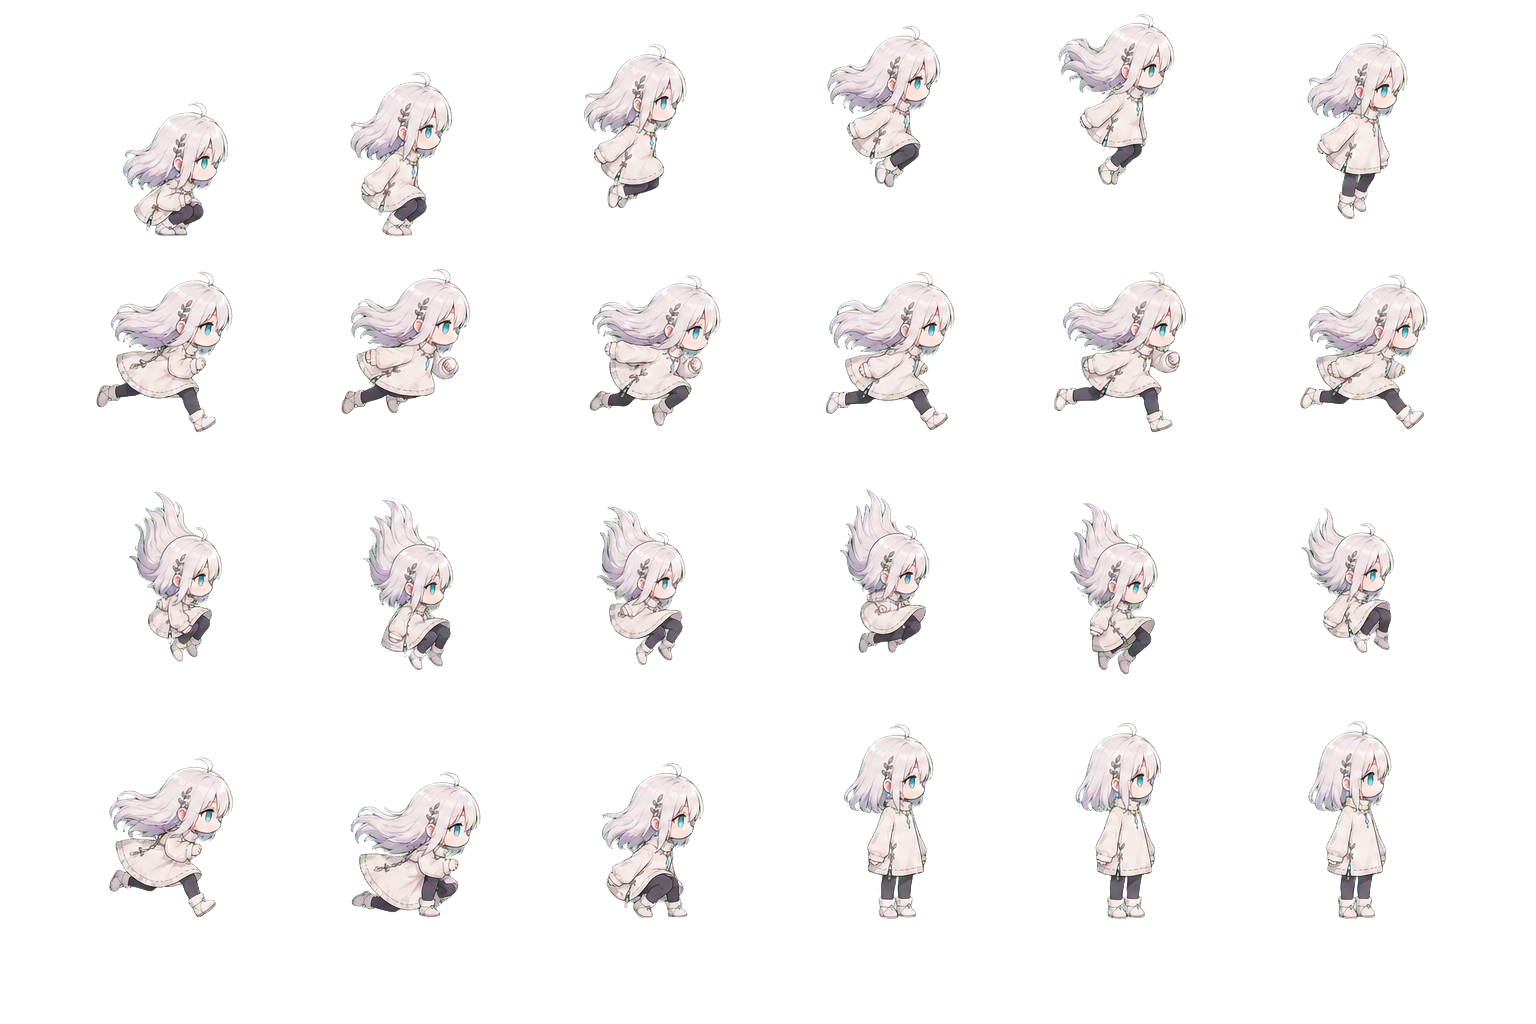
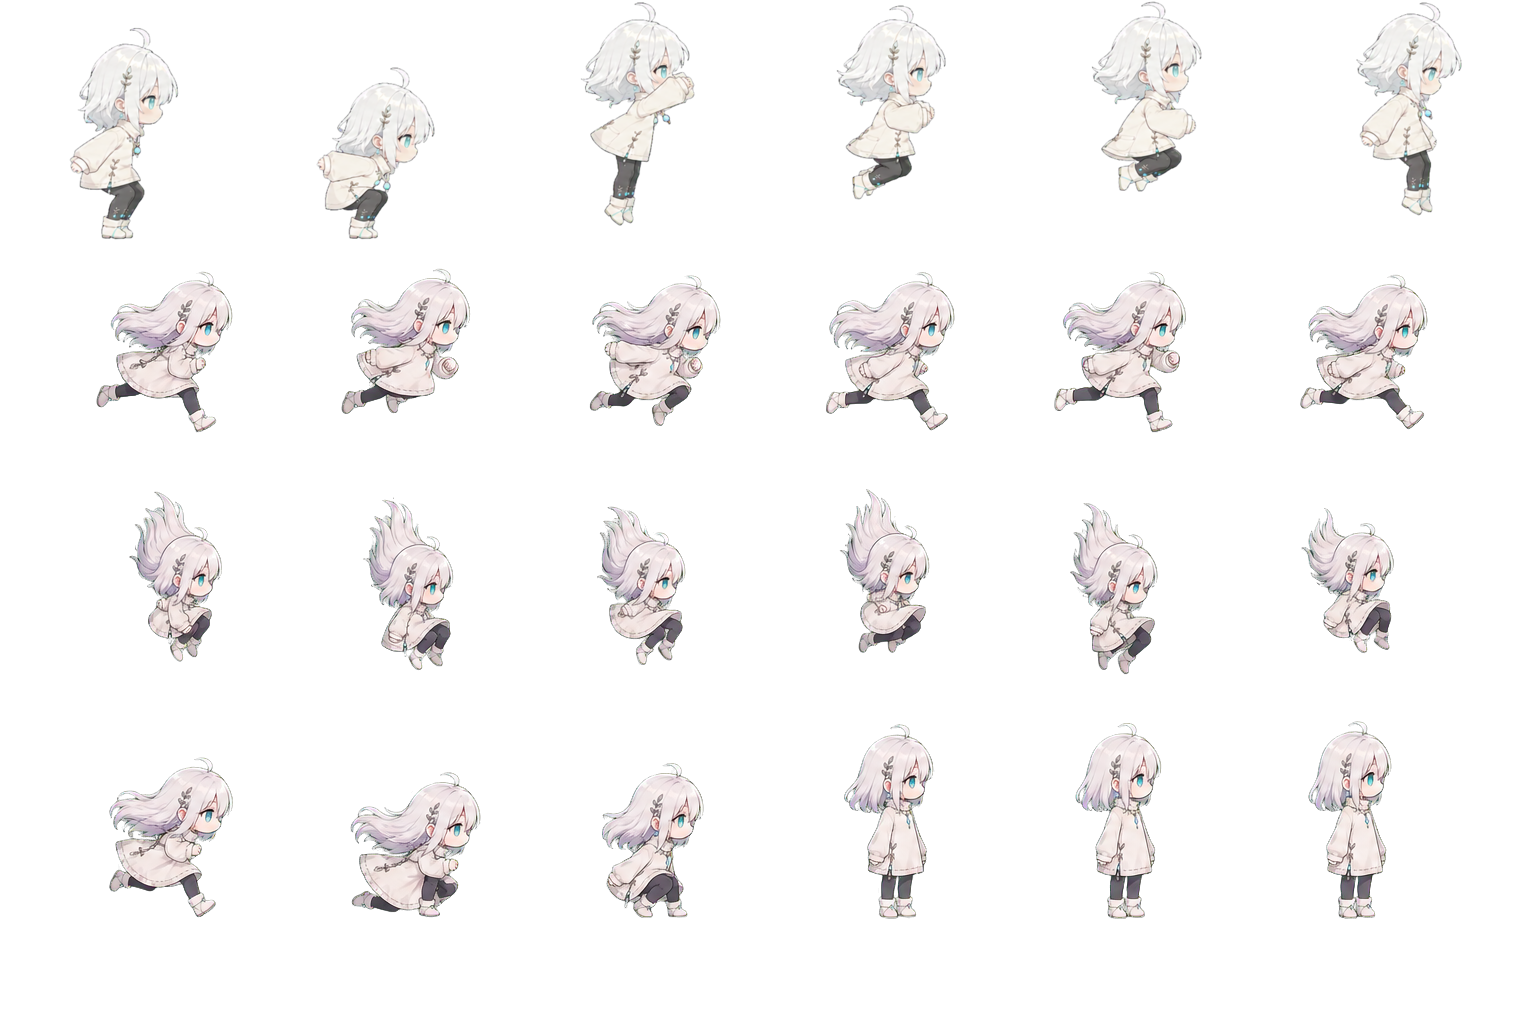
fix: lock player sprite feet to ground line regardless of frame padding
SpriteAnimator scaled frames to a uniform height but always rendered
around the sprite's canvas-center pivot, so frames with more empty
space above/below the character than the collider expected made the
player look like it was floating. Add lockFeetToGround/groundY so
Apply() repositions each frame using its trimmed sprite.bounds.min.y,
keeping the feet pinned to the capsule collider's bottom (-0.7).
Enabled for the Player only; other SpriteAnimator users are unchanged.

Also swap in the new chibi Jump sprite sheet (first 6 of 8 generated
frames, matching the existing Player_Aerial_v1.png grid).

diff --git a/HiddenWeight/Assets/Scripts/World/SpriteAnimator.cs b/HiddenWeight/Assets/Scripts/World/SpriteAnimator.cs
@@ -27,6 +27,13 @@ namespace HiddenWeight.World
         // 0보다 크면 매 프레임 이 높이에 맞춰 스케일을 다시 잡아 크기를 일정하게 유지한다.
         [SerializeField] float normalizedHeight = 0f;
 
+        // 프레임마다 캔버스 안 여백(머리 위·발 아래 공백)이 달라, 피벗(캔버스 중앙)만 믿으면
+        // 발 위치가 프레임/클립마다 들쭉날쭉해진다(플레이어 "공중에 뜬 것처럼 보인다" 버그).
+        // 켜두면 매 프레임 스프라이트의 실제(트리밍된) 바닥이 항상 groundY(로컬 좌표)에 오도록
+        // 위치를 다시 계산한다 — 피벗 대신 "그림 속 발"을 기준으로 맞춘다.
+        [SerializeField] bool lockFeetToGround = false;
+        [SerializeField] float groundY = 0f;
+
         // "지금 실제로 화면에 그려지는 렌더러"는 이것 하나다. 좌우 반전·피격 점멸처럼
         // 겉모습을 건드리는 쪽은 전부 여기를 봐야 한다 — 예전에는 프리팹 루트에 남아 있던
         // 꺼진 렌더러를 잡아, 안 보이는 그림만 뒤집히고 점멸이 엉뚱한 그림을 켜 놓았다.
@@ -119,6 +126,14 @@ namespace HiddenWeight.World
             // 가로세로 비율은 유지한 채 높이만 맞춘다.
             float scale = normalizedHeight / height;
             target.transform.localScale = new Vector3(scale, scale, 1f);
+
+            if (!lockFeetToGround) return;
+
+            // sprite.bounds.min.y는 피벗 기준 트리밍된 하단(발) 위치다(스케일 전 단위).
+            // 스케일을 곱해 실제 렌더 크기로 바꾼 뒤, 그만큼 위/아래로 밀어 발을 groundY에 둔다.
+            var pos = target.transform.localPosition;
+            pos.y = groundY - sprite.bounds.min.y * scale;
+            target.transform.localPosition = pos;
         }
     }
 }

diff --git a/HiddenWeight/Assets/Scripts/Editor/PrefabBuilder.cs b/HiddenWeight/Assets/Scripts/Editor/PrefabBuilder.cs
@@ -395,6 +395,12 @@ namespace HiddenWeight.EditorTools
             so.FindProperty("target").objectReferenceValue = renderer;
             so.FindProperty("normalizedHeight").floatValue = displayHeight;
 
+            // 콜라이더 바닥(CapsuleCollider2D size.y=1.4, offset 0 → 로컬 -0.7)에 그림 속
+            // 발을 고정한다. 프레임마다 캔버스 여백이 달라 피벗만으로는 "공중에 뜬 것처럼
+            // 보인다" 버그가 났다 — SpriteAnimator.Apply()가 매 프레임 다시 계산한다.
+            so.FindProperty("lockFeetToGround").boolValue = true;
+            so.FindProperty("groundY").floatValue = -0.7f;
+
             var clips = so.FindProperty("clips");
             clips.arraySize = valid.Count;
             for (int i = 0; i < valid.Count; i++)
